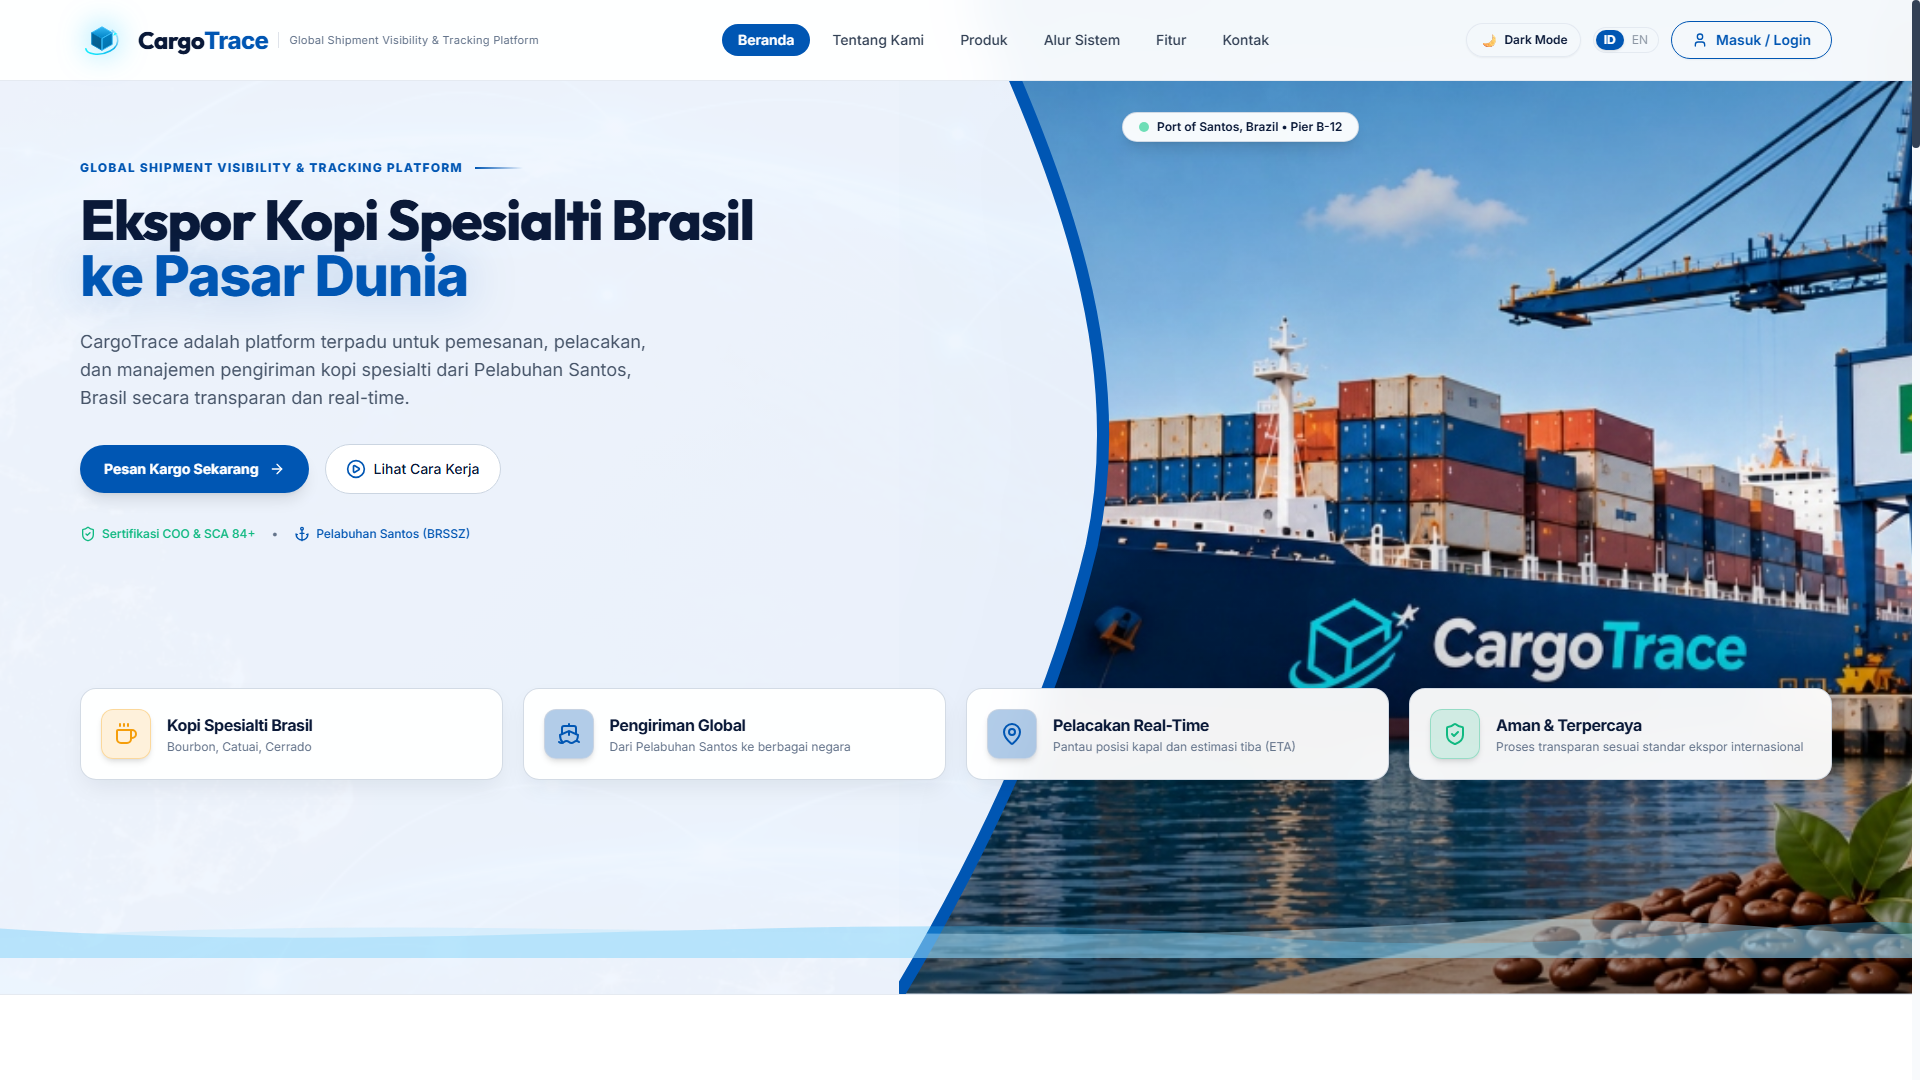
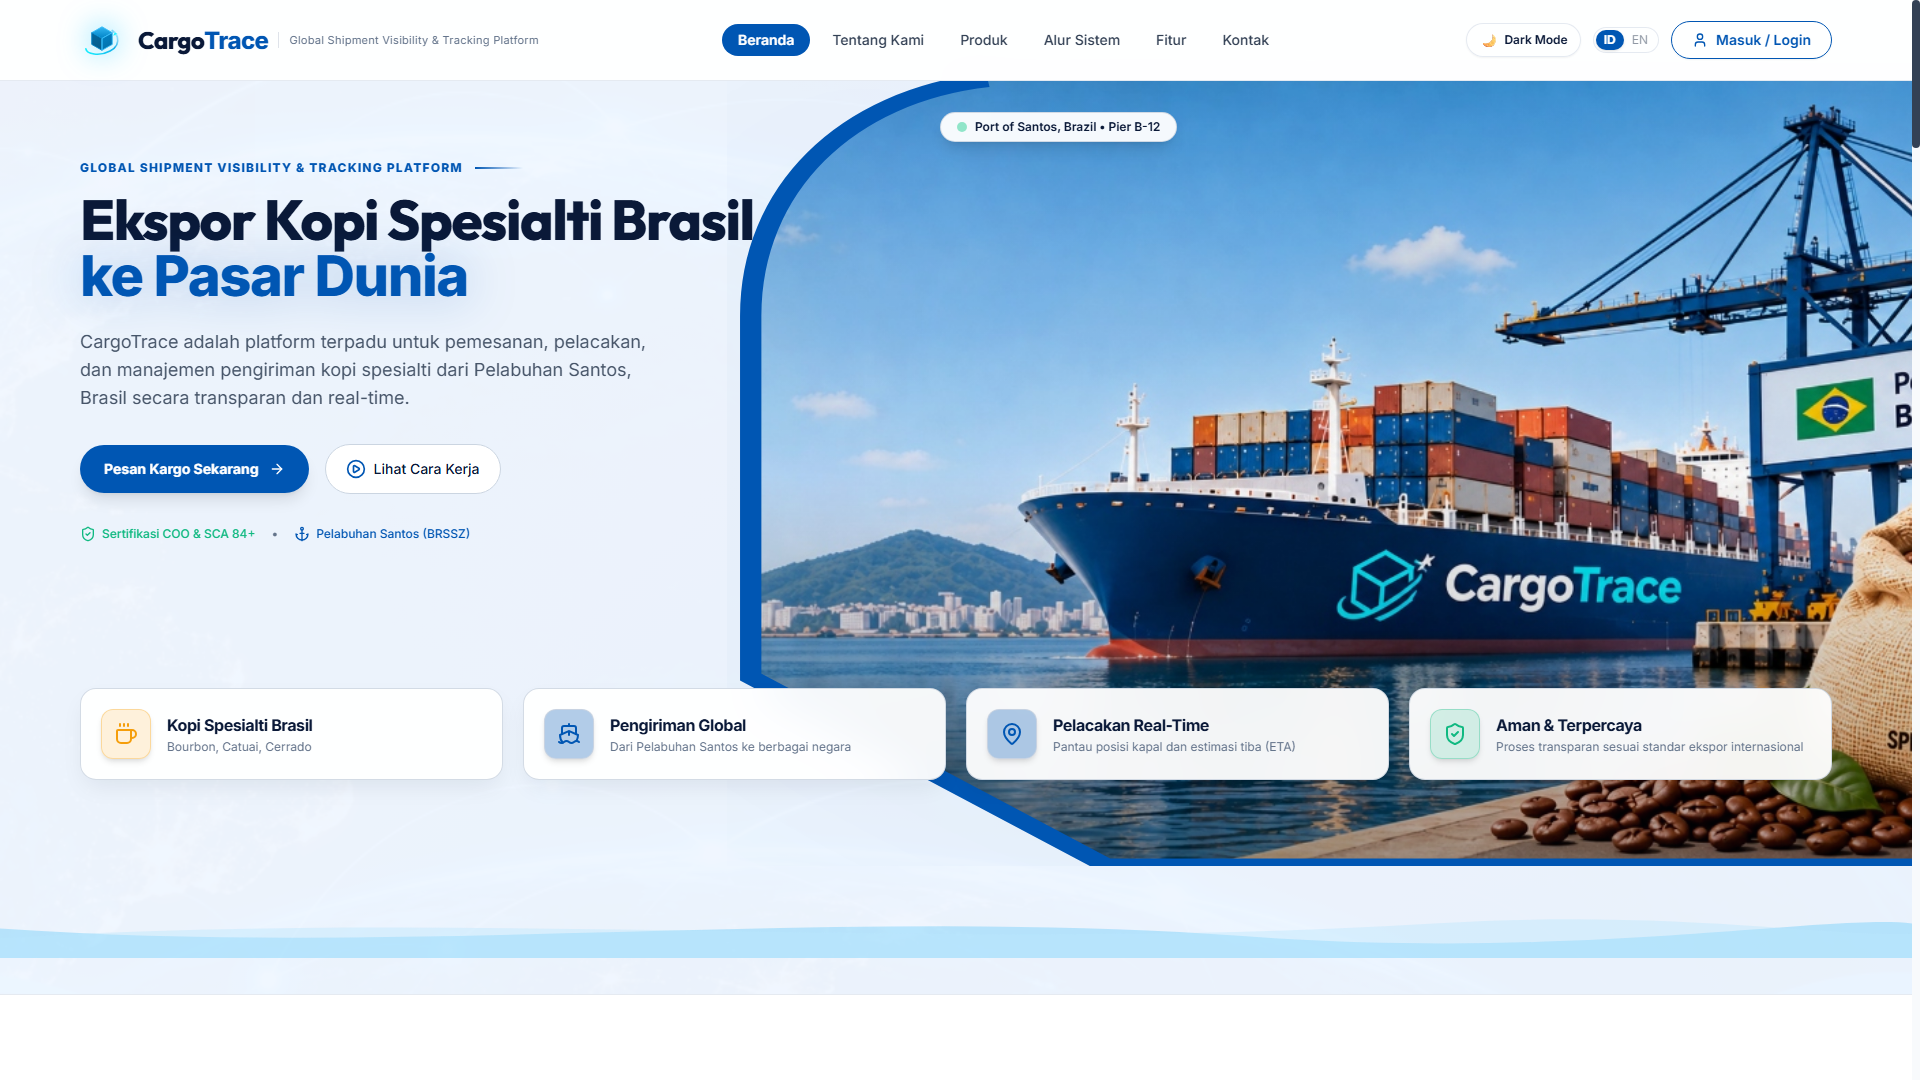
fix: adjust ship hero container with full image visibility, sharp bottom-left corner, and right-slanted boundary matching mockup

diff --git a/resources/views/landing.blade.php b/resources/views/landing.blade.php
@@ -137,8 +137,8 @@
     <svg class="absolute w-0 h-0 pointer-events-none" aria-hidden="true">
         <defs>
             <clipPath id="heroShipClip" clipPathUnits="objectBoundingBox">
-                <!-- Smooth organic curve identical to design mockup -->
-                <path d="M 0.08,0 C 0.16,0.18 0.23,0.36 0.19,0.55 C 0.15,0.72 0.07,0.88 0,1 L 1,1 L 1,0 Z" />
+                <!-- Top-left smooth curve -> Left edge -> Sharp corner at (0.02, 0.76) -> Slanted edge to (0.32, 1.0) -> Bottom edge -> Right edge -> Top -->
+                <path d="M 0.22,0 C 0.10,0.02 0.02,0.14 0.02,0.30 L 0.02,0.76 L 0.32,1.0 L 1.0,1.0 L 1.0,0 Z" />
             </clipPath>
         </defs>
     </svg>
@@ -309,27 +309,27 @@
             <div class="absolute inset-0" style="background: var(--hero-left-grad); opacity: 0.85;"></div>
         </div>
 
-        {{-- RIGHT-SIDE SHIP IMAGE CONTAINER (NO RECTANGLE BOX - TOUCHES TOP, BOTTOM & RIGHT EDGE) --}}
-        <div class="hidden lg:block absolute top-0 right-0 bottom-0 w-[53%] z-10 overflow-hidden pointer-events-none">
-            {{-- Ship Photo with Organic Wave Clip-Path --}}
+        {{-- RIGHT-SIDE SHIP IMAGE CONTAINER (FULL SHIP VISIBILITY WITH SHARP BOTTOM-LEFT SLANTED CORNER) --}}
+        <div class="hidden lg:block absolute top-16 lg:top-20 right-0 bottom-24 sm:bottom-28 lg:bottom-32 w-[58%] lg:w-[60%] xl:w-[62%] z-10 overflow-hidden pointer-events-none">
+            {{-- Ship Photo with Organic Wave & Slanted Clip-Path --}}
             <div class="w-full h-full hero-ship-mask relative">
                 <img src="{{ asset('images/landing-ship-santos.jpg') }}" 
                      alt="Santos Exporters Container Ship at Port of Santos Brazil" 
-                     class="w-full h-full object-cover object-center transform scale-105">
-                <div class="absolute inset-0 bg-gradient-to-t from-black/40 via-transparent to-black/20"></div>
+                     class="w-full h-full object-cover object-left-bottom transform hover:scale-[1.02] transition duration-700">
+                <div class="absolute inset-0 bg-gradient-to-t from-black/30 via-transparent to-black/10"></div>
             </div>
 
-            {{-- SVG Glowing Stroke following the exact curve boundary --}}
-            <svg class="absolute inset-y-0 left-0 h-full w-full pointer-events-none z-20" viewBox="0 0 100 100" preserveAspectRatio="none">
-                <path d="M 8,0 C 16,18 23,36 19,55 C 15,72 7,88 0,100" 
+            {{-- SVG Glowing Stroke following the exact curve boundary with sharp bottom-left slant --}}
+            <svg class="absolute inset-0 w-full h-full pointer-events-none z-20" viewBox="0 0 100 100" preserveAspectRatio="none">
+                <path d="M 22,0 C 10,2 2,14 2,30 L 2,76 L 32,100 L 100,100" 
                       fill="none" 
                       stroke="var(--curve-stroke)" 
-                      stroke-width="1.2" 
+                      stroke-width="1.8" 
                       class="drop-shadow-[0_0_12px_var(--brand-glow)]" />
             </svg>
 
             {{-- Floating Port Badge (Port of Santos Pier B-12) --}}
-            <div class="absolute top-28 left-[22%] z-30 theme-card px-4 py-1.5 rounded-full flex items-center gap-2 text-xs font-semibold shadow-lg"
+            <div class="absolute top-8 left-[18%] z-30 theme-card px-4 py-1.5 rounded-full flex items-center gap-2 text-xs font-semibold shadow-lg"
                  style="color: var(--text-heading)">
                 <span class="w-2.5 h-2.5 rounded-full bg-emerald-400 animate-pulse"></span>
                 <span>Port of Santos, Brazil &bull; Pier B-12</span>
@@ -338,7 +338,7 @@
 
         {{-- MAIN HERO CONTENT (Full Width Layout with generous responsive padding) --}}
         <div class="relative z-20 w-full px-6 sm:px-10 lg:px-14 xl:px-20 pt-8 sm:pt-12 lg:pt-16">
-            <div class="w-full lg:w-[48%] flex flex-col items-start text-left">
+            <div class="w-full lg:w-[44%] xl:w-[42%] flex flex-col items-start text-left">
                 
                 {{-- Eyebrow with Brand Accent Bar --}}
                 <div class="flex items-center gap-3 mb-4">
